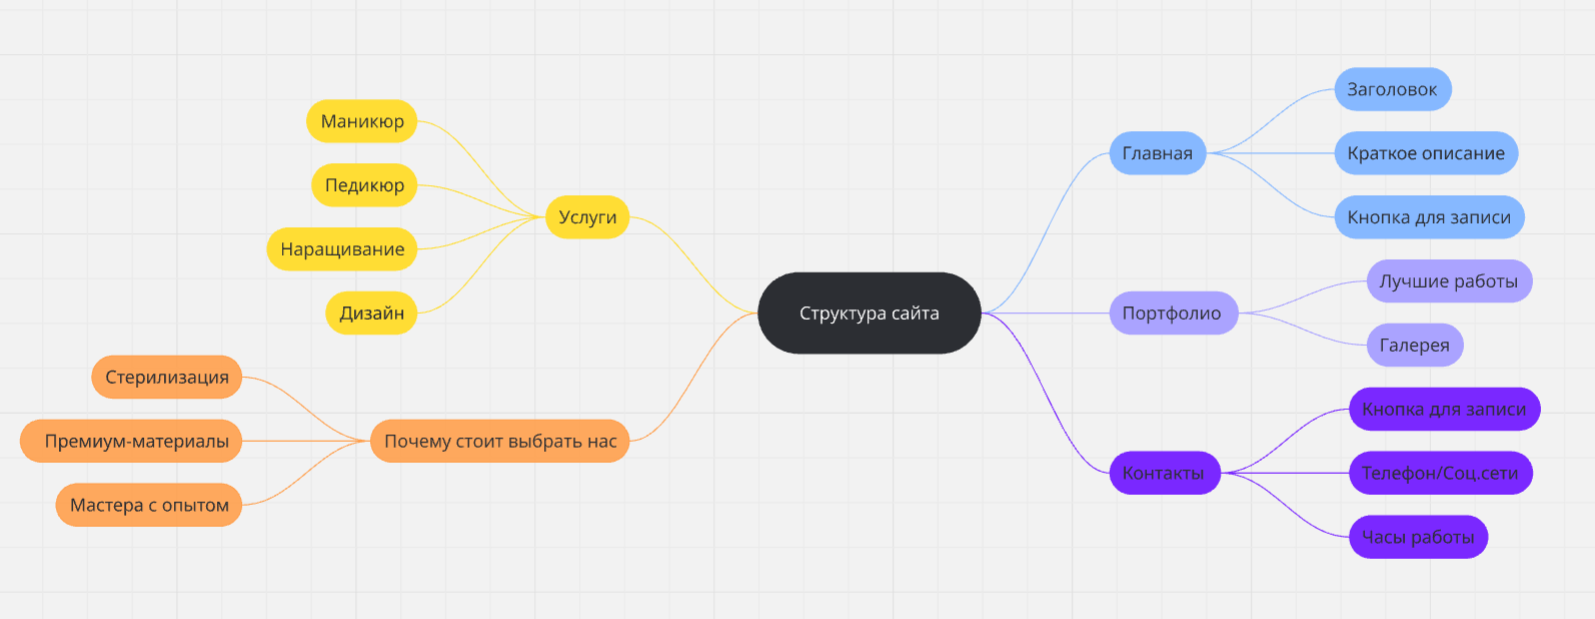
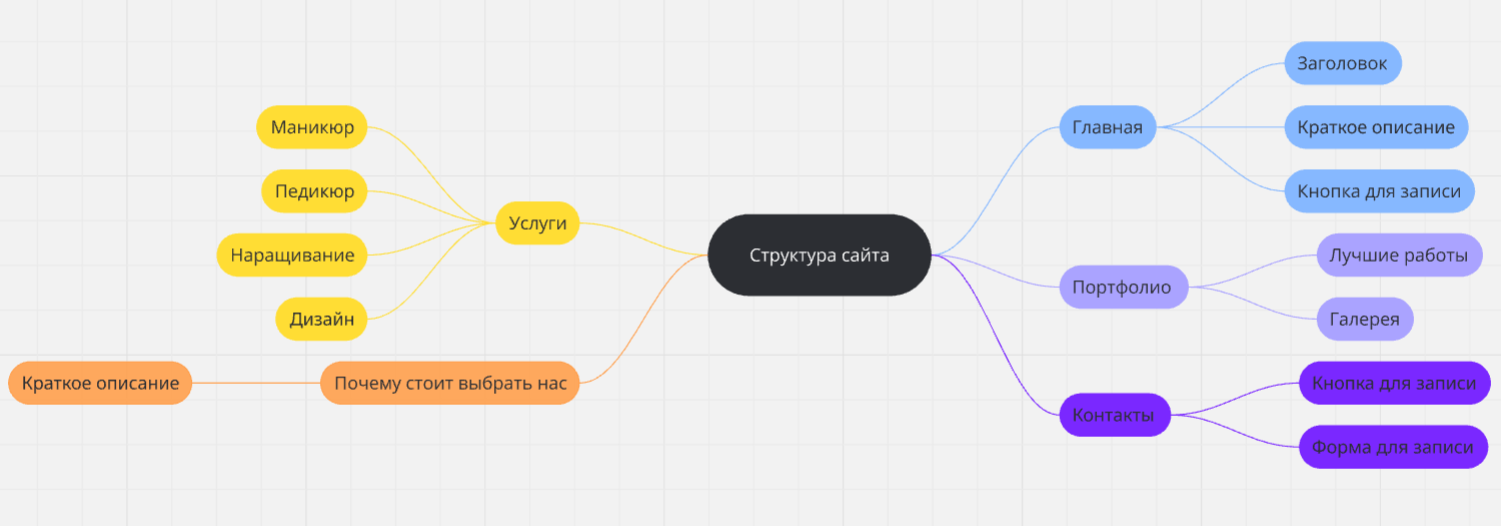
Updated README and site map

diff --git a/README.md b/README.md
@@ -2,3 +2,5 @@
 ## Проект 
 Практика 7
 ## Ссылки- [Публичная страница на GitHub Pages](https://Gogollita.github.io/Pr_7_WEB/)
+Карта сайта:
+![alt text](assets/img/SiteMap.png)
